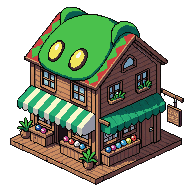
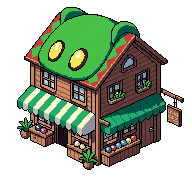
Plaza: no more stone pads, the pieces cast shadows on the cobblestones
The round stone pads are no longer drawn (the building's footprint stays,
invisible, for walkers to go around). Lv 4 and Lv 5 lose the ground baked
into their PNGs and cast a soft ellipse under their deep 3/4 footprint;
the cart, the tent, the kiosk and the props cast their own silhouette,
squashed flat and tinted, cached per art.

diff --git a/src/render/plaza.ts b/src/render/plaza.ts
@@ -7,9 +7,12 @@ import type { ShopLevel } from '../data/shop'
 
 /**
  * The Kecleon plaza: the lobby's shop as a place in the meadow, east of the
- * partner's home. Cobblestones and the round stone pad are drawn in code (and
- * cached); the building of the shop's level and the props are PixelLab PNGs
- * (`public/assets/shop/`), anchored by the bottom center of what they paint.
+ * partner's home. The cobblestones are drawn in code (and cached); the
+ * building of the shop's level and the props are PixelLab PNGs
+ * (`public/assets/shop/`), anchored by the bottom center of what they paint,
+ * with no ground of their own: each casts a shadow on the cobblestones (its
+ * own silhouette squashed flat, or a soft ellipse under the deep 3/4
+ * buildings). The building keeps an invisible footprint walkers go around.
  * The shopkeepers are Kecleon's own sheets, plus its purple brother from Lv 2,
  * recolored from the same sheets. Pure presentation, like the rest of the lobby.
  */
@@ -27,7 +30,7 @@ type ArtId = (typeof ART_IDS)[number]
 const artFile = (id: ArtId) => `${import.meta.env.BASE_URL}assets/shop/${id.startsWith('lv') ? `shop-${id}` : `prop-${id}`}.png`
 
 /** A loaded PNG and the box of its painted pixels, so pieces stand on their real feet whatever padding the image has. */
-type Art = { img: HTMLImageElement; minX: number; maxY: number; w: number; h: number }
+type Art = { img: HTMLImageElement; minX: number; minY: number; maxY: number; w: number; h: number }
 const arts = new Map<ArtId, Art>()
 let loading = false
 
@@ -50,7 +53,7 @@ const measure = (img: HTMLImageElement): Art => {
       if (y > maxY) maxY = y
     }
   }
-  return { img, minX, maxY, w: maxX - minX + 1, h: maxY - minY + 1 }
+  return { img, minX, minY, maxY, w: maxX - minX + 1, h: maxY - minY + 1 }
 }
 
 /** Starts loading the plaza's PNGs and the shopkeeper's sheets (once). Pieces show up as they arrive. */
@@ -125,10 +128,13 @@ export const keeperSprites = (purple: boolean) => {
 type Placed = { x: number; y: number }
 type KeeperSpot = Placed & { dir: Dir8 }
 
+/** A shadow on the cobblestones, relative to the building's feet: a piece's squashed silhouette (its feet at x, y), or a soft ellipse centered at x, y. */
+type Shadow = (Placed & { art: Art }) | (Placed & { rx: number; ry: number })
+
 /** Where everything stands at a level, relative to the building's feet (its bottom center). */
 type Layout = {
   building: Art
-  /** The round stone pad under the building: its center's y, and radii. */
+  /** The building's footprint, never drawn: an ellipse walkers go around (its center's y, and radii). */
   pad: { y: number; rx: number; ry: number }
   /** The green Kecleon, then the purple brother from Lv 2. */
   keepers: readonly KeeperSpot[]
@@ -139,6 +145,8 @@ type Layout = {
   spot: Placed
   /** The cobblestones' ellipse. */
   cobbles: Placed & { rx: number; ry: number }
+  /** What the building and the props cast on the cobblestones. */
+  shadows: readonly Shadow[]
 }
 
 const layouts = new Map<ShopLevel, Layout>()
@@ -152,7 +160,7 @@ const layoutOf = (level: ShopLevel): Layout | null => {
   const building = arts.get(`lv${level}`)
   if (!building || ART_IDS.some((id) => !arts.has(id))) return null
   const half = Math.round(building.w / 2)
-  // The 3/4 buildings of Lv 4 and 5 stand on a deep diamond: the pad and the cobblestones reach back under all of it.
+  // The 3/4 buildings of Lv 4 and 5 stand on a deep diamond: the footprint and the cobblestones reach back under all of it.
   const depth = level >= 4 ? Math.round(half * 0.45) : 0
   // Lanterns flank the building, the rest of the props sit outside them.
   const lamp = Math.max(104, half + 14)
@@ -168,20 +176,26 @@ const layoutOf = (level: ShopLevel): Layout | null => {
             { x: -half + 2, y: 14, dir: 1 },
             { x: half - 2, y: 14, dir: 7 },
           ]
+  const props: Layout['props'] = [
+    { id: 'lantern', x: -lamp, y: 14 },
+    { id: 'lantern', x: lamp, y: 14 },
+    { id: 'crates', x: lamp + 26, y: 30 },
+    ...(level >= 2 ? [{ id: 'board' as const, x: -lamp - 36, y: 58 }] : []),
+    ...(level >= 3 ? [{ id: 'flowers' as const, x: -lamp + 2, y: 44 }, { id: 'flowers' as const, x: lamp + 16, y: 66 }] : []),
+  ]
   const layout: Layout = {
     building,
     pad: { y: -6 - depth, rx: half + 4 + (depth ? 6 : 0), ry: Math.round(building.w / 7) + depth },
     keepers,
     counter: level === 3 ? LV3_COUNTER : null,
-    props: [
-      { id: 'lantern', x: -lamp, y: 14 },
-      { id: 'lantern', x: lamp, y: 14 },
-      { id: 'crates', x: lamp + 26, y: 30 },
-      ...(level >= 2 ? [{ id: 'board' as const, x: -lamp - 36, y: 58 }] : []),
-      ...(level >= 3 ? [{ id: 'flowers' as const, x: -lamp + 2, y: 44 }, { id: 'flowers' as const, x: lamp + 16, y: 66 }] : []),
-    ],
+    props,
     spot: { x: 0, y: 34 },
     cobbles: { x: 0, y: 36 - Math.round(depth * 0.7), rx: lamp + 66, ry: 78 + Math.round(depth * 1.1) },
+    shadows: [
+      // The deep 3/4 buildings cast a soft ellipse under their footprint; everything else, its own silhouette.
+      depth ? { x: 0, y: -Math.round(half * 0.3), rx: half - 10, ry: Math.round(half * 0.32) } : { x: 0, y: 0, art: building },
+      ...props.map((p) => ({ x: p.x, y: p.y, art: arts.get(p.id)! })),
+    ],
   }
   layouts.set(level, layout)
   return layout
@@ -265,7 +279,7 @@ export const talkAnchor = (plaza: Plaza, p: Vec): Vec | null => {
   return best && { x: plaza.x + best.x, y: plaza.y + best.y - 30 }
 }
 
-/** Pushes feet at `v` out of the building's pad, so walkers go around the shop (mutates `v`). */
+/** Pushes feet at `v` out of the building's footprint, so walkers go around the shop (mutates `v`). */
 export const pushOut = (plaza: Plaza, v: Vec) => {
   const layout = layoutOf(plaza.level)
   if (!layout) return
@@ -392,59 +406,37 @@ const cobbles = (() => {
   }
 })()
 
-/** Hard-edged filled ellipse rows into `ctx` centered at (x, y). */
-const fillEllipse = (ctx: CanvasRenderingContext2D, x: number, y: number, rx: number, ry: number, color: string) => {
-  ctx.fillStyle = color
-  for (let j = -ry; j <= ry; j++) {
-    const span = Math.round(rx * Math.sqrt(Math.max(0, 1 - (j / (ry + 0.5)) ** 2)))
-    if (span > 0) ctx.fillRect(x - span, y + j, span * 2, 1)
-  }
-}
+/** The shadows' tint: a dark green that reads on the cobblestones and on the grass. */
+const SHADOW = 'rgba(30,40,30,0.3)'
+/** How flat a silhouette shadow is, of its piece's painted height. */
+const SQUASH = 0.28
 
-/**
- * The round stone base a building stands on: a dark rim, two lighter rings,
- * a floor of small staggered slabs and the building's contact shadow in the
- * middle. Cached per size, centered on its middle.
- */
-const stonePad = (() => {
-  const cache = new Map<string, HTMLCanvasElement>()
+/** A piece's silhouette shadow: its painted rows squashed to `SQUASH` of their height and tinted `SHADOW`. Cached per art. */
+const silhouette = (() => {
+  const cache = new Map<Art, HTMLCanvasElement>()
   onCanvasReset(() => cache.clear())
-  return (rx: number, ry: number) => {
-    const key = `${rx}x${ry}`
-    const hit = cache.get(key)
+  return (art: Art) => {
+    const hit = cache.get(art)
     if (hit) return hit
-    const m = 3
-    const w = rx * 2 + m * 2 + 1
-    const h = ry * 2 + m * 2 + 5
-    const canvas = createCanvas(w, h)
+    const canvas = createCanvas(art.img.width, Math.max(1, Math.round(art.h * SQUASH)))
     const ctx = context2d(canvas)
-    const cx = rx + m
-    const cy = ry + m
-    fillEllipse(ctx, cx, cy + 2, rx + 2, ry + 2, 'rgba(30,50,30,0.25)')
-    fillEllipse(ctx, cx, cy, rx + 1, ry + 1, '#6a5a48')
-    fillEllipse(ctx, cx, cy, rx, ry, '#a89070')
-    fillEllipse(ctx, cx, cy, rx - 1, ry - 1, '#cbb48c')
-    // Slabs inside the inner ring only (a hard-edged clip: a row per slab line).
-    const irx = rx - 3
-    const iry = ry - 2
-    for (let j = -iry; j <= iry; j++) {
-      const span = Math.round(irx * Math.sqrt(Math.max(0, 1 - (j / (iry + 0.5)) ** 2)))
-      const ly = (j + 200) % 5
-      const offset = (Math.floor((j + 200) / 5) % 2) * 4
-      for (let i = -span; i < span; i++) {
-        const lx = (i + 400 + offset) % 9
-        const slab = Math.floor((i + 400 + offset) / 9) + Math.floor((j + 200) / 5)
-        ctx.fillStyle = lx === 8 || ly === 4 ? '#b8a07c' : ly === 0 ? '#ece0bf' : slab % 3 ? '#d8c49c' : '#c9b48a'
-        ctx.fillRect(cx + i, cy + j, 1, 1)
-      }
-    }
-    fillEllipse(ctx, cx, cy + 1, Math.round(rx * 0.72), Math.round(ry * 0.55), 'rgba(40,30,20,0.28)')
-    cache.set(key, canvas)
+    ctx.drawImage(art.img, 0, art.minY, art.img.width, art.h, 0, 0, canvas.width, canvas.height)
+    ctx.globalCompositeOperation = 'source-in'
+    ctx.fillStyle = SHADOW
+    ctx.fillRect(0, 0, canvas.width, canvas.height)
+    cache.set(art, canvas)
     return canvas
   }
 })()
 
-/** Draws the plaza's floor (cobblestones, the building's pad) under everyone, when it's in view. */
+/** Draws a shadow on the ground at (x, y), screen px: a silhouette bottom-aligned to the feet and nudged 2 px down-right, or an ellipse centered there. */
+const drawShadow = (ctx: CanvasRenderingContext2D, s: Shadow, x: number, y: number) => {
+  if ('rx' in s) return blitCentered(ctx, ellipse(s.rx, s.ry, SHADOW), x, y)
+  const mask = silhouette(s.art)
+  ctx.drawImage(mask, Math.round(x - (s.art.minX + s.art.w / 2)) + 2, Math.round(y - mask.height) + 2)
+}
+
+/** Draws the plaza's floor (cobblestones, the pieces' shadows) under everyone, when it's in view. */
 export const drawPlazaGround = (ctx: CanvasRenderingContext2D, plaza: Plaza, camX: number, camY: number, w: number, h: number) => {
   const layout = layoutOf(plaza.level)
   if (!layout) return
@@ -453,8 +445,7 @@ export const drawPlazaGround = (ctx: CanvasRenderingContext2D, plaza: Plaza, cam
   const y = plaza.y + c.y - camY
   if (x + c.rx + 8 < 0 || x - c.rx - 8 > w || y + c.ry + 8 < 0 || y - c.ry - layout.building.h > h) return
   blitCentered(ctx, cobbles(c.rx, c.ry), x, y)
-  const pad = stonePad(layout.pad.rx, layout.pad.ry)
-  ctx.drawImage(pad, plaza.x - camX - (pad.width - 1) / 2, plaza.y + layout.pad.y - camY - layout.pad.ry - 3)
+  for (const s of layout.shadows) drawShadow(ctx, s, plaza.x + s.x - camX, plaza.y + s.y - camY)
 }
 
 /** Height (px) of a hop `since` seconds in, `count` hops long; 0 outside it. */
@@ -494,10 +485,7 @@ export const plazaPieces = (plaza: Plaza): readonly Piece[] => {
       const y = plaza.y + p.y
       return {
         y,
-        draw: (ctx, camX, camY) => {
-          blitCentered(ctx, ellipse(Math.round(art.w / 2) - 1, 2, 'rgba(16,40,16,0.25)'), x - camX, y - camY - 1)
-          put(ctx, art, x - camX, y - camY)
-        },
+        draw: (ctx, camX, camY) => put(ctx, art, x - camX, y - camY),
       }
     }),
     {
